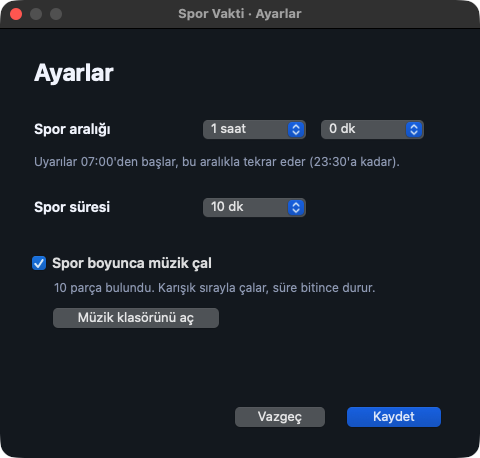
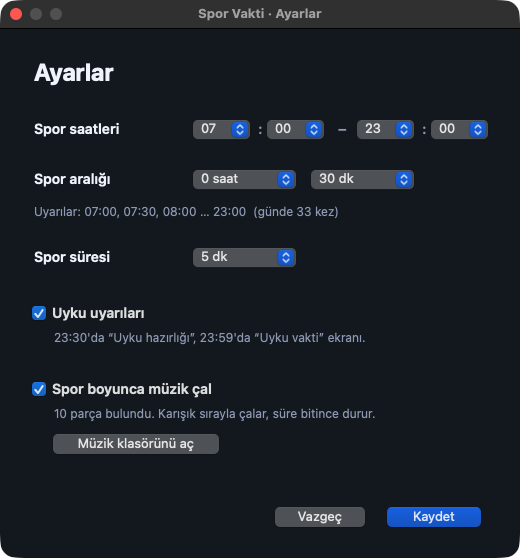
Ayarlar: spor saatleri (başlangıç–bitiş) ve uyku uyarıları aç/kapa
- Ayar ekranında başlangıç ve bitiş saati (5 dk adımlarla); aralık başlangıçtan sayılır
- Ekran örnek düzeni ve günde kaç uyarı geleceğini gösterir
- Uyku uyarıları (23:30, 23:59) kapatılabilir
- run.sh yeni ayarları okur; --kuru ile ekran açmadan kararı yazar (test için)

diff --git a/src/main.swift b/src/main.swift
@@ -30,8 +30,13 @@ let DATA_DIR: URL = {
 
 /// Kullanıcı ayarları: DATA_DIR/ayarlar (anahtar=değer satırları; run.sh de okur)
 struct Settings {
-    /// İki spor uyarısı arası (dakika, 5'in katı). 07:00'den başlayarak sayılır.
+    /// İki spor uyarısı arası (dakika, 5'in katı). Başlangıç saatinden itibaren sayılır.
     var intervalMin = 60
+    /// Spor uyarılarının geldiği saatler (gece yarısından beri dakika, 5'in katı). Bitiş dahil.
+    var startMin = 7 * 60
+    var endMin = 23 * 60
+    /// 23:30 "uyku hazırlığı" ve 23:59 "uyku vakti" uyarıları
+    var sleepNotices = true
     /// Bir seansın süresi (dakika)
     var sessionMin = 10
     /// Seans boyunca muzik klasöründeki parçaları çal
@@ -50,6 +55,9 @@ struct Settings {
             case "aralik_dk": if let v = Int(kv[1]), v >= minInterval { s.intervalMin = v }
             case "sure_dk":   if let v = Int(kv[1]), v >= 1 { s.sessionMin = v }
             case "muzik":     s.music = kv[1] != "0"
+            case "baslangic_dk": if let v = Int(kv[1]), (0..<1440).contains(v) { s.startMin = v }
+            case "bitis_dk":     if let v = Int(kv[1]), (0..<1440).contains(v) { s.endMin = v }
+            case "uyku_uyarisi": s.sleepNotices = kv[1] != "0"
             default: break
             }
         }
@@ -58,6 +66,7 @@ struct Settings {
 
     func save() throws {
         let text = "aralik_dk=\(intervalMin)\nsure_dk=\(sessionMin)\nmuzik=\(music ? 1 : 0)\n"
+            + "baslangic_dk=\(startMin)\nbitis_dk=\(endMin)\nuyku_uyarisi=\(sleepNotices ? 1 : 0)\n"
         try text.write(to: Settings.url, atomically: true, encoding: .utf8)
     }
 }
@@ -947,6 +956,12 @@ final class SettingsWindow: NSObject, NSWindowDelegate {
     init(onClose: @escaping () -> Void) { self.onClose = onClose }
     let hours = NSPopUpButton(frame: .zero, pullsDown: false)
     let mins = NSPopUpButton(frame: .zero, pullsDown: false)
+    let startH = NSPopUpButton(frame: .zero, pullsDown: false)
+    let startM = NSPopUpButton(frame: .zero, pullsDown: false)
+    let endH = NSPopUpButton(frame: .zero, pullsDown: false)
+    let endM = NSPopUpButton(frame: .zero, pullsDown: false)
+    let schedule = NSTextField(labelWithString: "")
+    let sleepBox = NSButton(checkboxWithTitle: "Uyku uyarıları", target: nil, action: nil)
     let dur = NSPopUpButton(frame: .zero, pullsDown: false)
     let musicBox = NSButton(checkboxWithTitle: "Spor boyunca müzik çal", target: nil, action: nil)
     let musicInfo = NSTextField(labelWithString: "")
@@ -962,7 +977,7 @@ final class SettingsWindow: NSObject, NSWindowDelegate {
     }
 
     func show() {
-        let W: CGFloat = 480, H: CGFloat = 430, L: CGFloat = 32
+        let W: CGFloat = 520, H: CGFloat = 530, L: CGFloat = 32, X: CGFloat = 190
         win = NSWindow(contentRect: NSRect(x: 0, y: 0, width: W, height: H),
                        styleMask: [.titled, .closable], backing: .buffered, defer: false)
         win.title = "Spor Vakti · Ayarlar"
@@ -974,28 +989,55 @@ final class SettingsWindow: NSObject, NSWindowDelegate {
 
         v.addSubview(text("Ayarlar", 24, .bold, C_WHITE, NSRect(x: L, y: H - 62, width: 300, height: 32)))
 
+        // Saatler: başlangıç – bitiş
+        v.addSubview(text("Spor saatleri", 14, .semibold, C_WHITE, NSRect(x: L, y: H - 112, width: 150, height: 20)))
+        let hh = (0...23).map { String(format: "%02d", $0) }
+        let mm = stride(from: 0, through: 55, by: 5).map { String(format: "%02d", $0) }
+        for (p, items) in [(startH, hh), (startM, mm), (endH, hh), (endM, mm)] { p.addItems(withTitles: items) }
+        startH.frame = NSRect(x: X, y: H - 116, width: 64, height: 26)
+        v.addSubview(text(":", 14, .semibold, C_MUTED, NSRect(x: X + 66, y: H - 112, width: 8, height: 20)))
+        startM.frame = NSRect(x: X + 74, y: H - 116, width: 64, height: 26)
+        v.addSubview(text("–", 14, .semibold, C_MUTED, NSRect(x: X + 146, y: H - 112, width: 14, height: 20)))
+        endH.frame = NSRect(x: X + 164, y: H - 116, width: 64, height: 26)
+        v.addSubview(text(":", 14, .semibold, C_MUTED, NSRect(x: X + 230, y: H - 112, width: 8, height: 20)))
+        endM.frame = NSRect(x: X + 238, y: H - 116, width: 64, height: 26)
+        startH.selectItem(at: settings.startMin / 60); startM.selectItem(at: (settings.startMin % 60) / 5)
+        endH.selectItem(at: settings.endMin / 60); endM.selectItem(at: (settings.endMin % 60) / 5)
+        for p in [startH, startM, endH, endM] { v.addSubview(p) }
+
         // Aralık: saat + dakika
-        v.addSubview(text("Spor aralığı", 14, .semibold, C_WHITE, NSRect(x: L, y: H - 112, width: 160, height: 20)))
+        v.addSubview(text("Spor aralığı", 14, .semibold, C_WHITE, NSRect(x: L, y: H - 162, width: 150, height: 20)))
         hours.addItems(withTitles: (0...6).map { "\($0) saat" })
         mins.addItems(withTitles: stride(from: 0, through: 55, by: 5).map { "\($0) dk" })
-        hours.frame = NSRect(x: 200, y: H - 116, width: 110, height: 26)
-        mins.frame = NSRect(x: 318, y: H - 116, width: 110, height: 26)
+        hours.frame = NSRect(x: X, y: H - 166, width: 110, height: 26)
+        mins.frame = NSRect(x: X + 118, y: H - 166, width: 110, height: 26)
         let iv = settings.intervalMin
         hours.selectItem(at: min(6, iv / 60))
         mins.selectItem(at: (iv % 60) / 5)
         v.addSubview(hours); v.addSubview(mins)
-        v.addSubview(text("Uyarılar 07:00'den başlar, bu aralıkla tekrar eder (23:30'a kadar).", 12, .regular, C_MUTED,
-                          NSRect(x: L, y: H - 144, width: W - 2 * L, height: 18)))
+        schedule.font = .systemFont(ofSize: 12)
+        schedule.textColor = C_MUTED
+        schedule.lineBreakMode = .byTruncatingTail
+        schedule.frame = NSRect(x: L, y: H - 194, width: W - 2 * L, height: 18)
+        v.addSubview(schedule)
 
         // Süre
-        v.addSubview(text("Spor süresi", 14, .semibold, C_WHITE, NSRect(x: L, y: H - 190, width: 160, height: 20)))
+        v.addSubview(text("Spor süresi", 14, .semibold, C_WHITE, NSRect(x: L, y: H - 240, width: 150, height: 20)))
         dur.addItems(withTitles: (1...60).map { "\($0) dk" })
-        dur.frame = NSRect(x: 200, y: H - 194, width: 110, height: 26)
+        dur.frame = NSRect(x: X, y: H - 244, width: 110, height: 26)
         dur.selectItem(at: min(60, settings.sessionMin) - 1)
         v.addSubview(dur)
 
+        // Uyku uyarıları
+        sleepBox.frame = NSRect(x: L - 2, y: H - 296, width: 300, height: 22)
+        sleepBox.font = .systemFont(ofSize: 14, weight: .semibold)
+        sleepBox.state = settings.sleepNotices ? .on : .off
+        v.addSubview(sleepBox)
+        v.addSubview(text("23:30'da \u{201C}Uyku hazırlığı\u{201D}, 23:59'da \u{201C}Uyku vakti\u{201D} ekranı.", 12, .regular,
+                          C_MUTED, NSRect(x: L + 20, y: H - 320, width: W - 2 * L - 20, height: 18)))
+
         // Müzik
-        musicBox.frame = NSRect(x: L - 2, y: H - 246, width: 300, height: 22)
+        musicBox.frame = NSRect(x: L - 2, y: H - 372, width: 300, height: 22)
         musicBox.font = .systemFont(ofSize: 14, weight: .semibold)
         musicBox.state = settings.music ? .on : .off
         v.addSubview(musicBox)
@@ -1004,11 +1046,11 @@ final class SettingsWindow: NSObject, NSWindowDelegate {
                                       : "Henüz parça yok. Klasöre mp3 ekle."
         musicInfo.font = .systemFont(ofSize: 12)
         musicInfo.textColor = C_MUTED
-        musicInfo.frame = NSRect(x: L + 20, y: H - 270, width: W - 2 * L - 20, height: 18)
+        musicInfo.frame = NSRect(x: L + 20, y: H - 396, width: W - 2 * L - 20, height: 18)
         v.addSubview(musicInfo)
         let open = NSButton(title: "Müzik klasörünü aç", target: self, action: #selector(openMusic))
         open.bezelStyle = .rounded
-        open.frame = NSRect(x: L + 14, y: H - 306, width: 180, height: 30)
+        open.frame = NSRect(x: L + 14, y: H - 432, width: 180, height: 30)
         v.addSubview(open)
 
         warn.font = .systemFont(ofSize: 12, weight: .medium)
@@ -1027,7 +1069,7 @@ final class SettingsWindow: NSObject, NSWindowDelegate {
         saveBtn.frame = NSRect(x: W - L - 108, y: 24, width: 108, height: 32)
         v.addSubview(cancel); v.addSubview(saveBtn)
 
-        for p in [hours, mins, dur] { p.target = self; p.action = #selector(validate) }
+        for p in [hours, mins, dur, startH, startM, endH, endM] { p.target = self; p.action = #selector(validate) }
         validate()
 
         win.center()
@@ -1038,11 +1080,26 @@ final class SettingsWindow: NSObject, NSWindowDelegate {
     }
 
     var interval: Int { hours.indexOfSelectedItem * 60 + mins.indexOfSelectedItem * 5 }
+    var startTime: Int { startH.indexOfSelectedItem * 60 + startM.indexOfSelectedItem * 5 }
+    var endTime: Int { endH.indexOfSelectedItem * 60 + endM.indexOfSelectedItem * 5 }
+
+    static func clock(_ m: Int) -> String { String(format: "%02d:%02d", m / 60, m % 60) }
     var duration: Int { dur.indexOfSelectedItem + 1 }
 
     @objc func validate() {
         var msg = ""
-        if interval < Settings.minInterval {
+        // Örnek düzen: ilk birkaç uyarı ve sonuncusu
+        if interval > 0 && endTime >= startTime {
+            let times = Array(stride(from: startTime, through: endTime, by: interval))
+            let head = times.prefix(3).map(SettingsWindow.clock).joined(separator: ", ")
+            let tail = times.count > 3 ? " … \(SettingsWindow.clock(times.last!))" : ""
+            schedule.stringValue = "Uyarılar: \(head)\(tail)  (günde \(times.count) kez)"
+        } else {
+            schedule.stringValue = ""
+        }
+        if endTime <= startTime {
+            msg = "Bitiş saati başlangıçtan sonra olmalı."
+        } else if interval < Settings.minInterval {
             msg = "Aralık en az \(Settings.minInterval) dakika olmalı."
         } else if duration >= interval {
             msg = "Spor süresi aralıktan kısa olmalı."
@@ -1064,6 +1121,9 @@ final class SettingsWindow: NSObject, NSWindowDelegate {
         s.intervalMin = interval
         s.sessionMin = duration
         s.music = musicBox.state == .on
+        s.startMin = startTime
+        s.endMin = endTime
+        s.sleepNotices = sleepBox.state == .on
         do {
             try s.save()
             applySettings(s)

diff --git a/README.md b/README.md
@@ -23,12 +23,12 @@ Sana ne yapacağını söylemez. Ama sana sorar: **gerçekten yapıyor musun, yo
 
 | | |
 |---|---|
-| ![Soru](docs/1-spor-vakti.png) | **Belirlediğin aralıkla (varsayılan saat başı, 07:00–23:00):** Tam ekran "Spor vakti." Bugünkü durumun altta: seans, dakika, pas. Sağ üstteki **Ayarlar** (ya da `A`) ile aralığı, süreyi ve müziği oradan değiştirebilirsin; yeni süre hemen geçerli olur. |
+| ![Soru](docs/1-spor-vakti.png) | **Belirlediğin saatlerde ve aralıkla (varsayılan 07:00–23:00, saat başı):** Tam ekran "Spor vakti." Bugünkü durumun altta: seans, dakika, pas. Sağ üstteki **Ayarlar** (ya da `A`) ile saatleri, aralığı, süreyi ve müziği oradan değiştirebilirsin; yeni süre hemen geçerli olur. |
 | | **Şimdi olmuyorsa:** **5 dk ertele** (ya da `E`). Pas sayılmaz; uyarı 5 dk sonra gelir ve o günün düzeni de 5 dk kayar (14:00 ertelendiyse 14:05, sonraki 15:05). Her erteleme 5 dk daha kaydırır; ertesi gün saat başına döner. |
 | ![Emin misin](docs/2-emin-misin.png) | **Pas geçmek istersen:** "Bugün 2. pas olacak. Bugün toplam 20 dakika spordan mahrum kalacaksın." Kutuya **evet** yazınca **Pas geç** düğmesi açılır. **Spora başla** her zaman orada. |
 | ![Seans](docs/3-seans.png) | **Başlıyorum dersen:** Geri sayım başlar (varsayılan 10 dk) ve **spor müziği çalmaya başlar**; süre bitince müzik de yavaşça susar. Erken bitirirsen eksik kalan dakikalar da sayılır. **Küçült · müzik aç** (ya da `M`) ile ekran köşede küçük bir sayaca dönüşür: müzik açabilir, bilgisayarı kullanabilirsin; seans sürer, pas sayılmaz. Süre bitince tam ekran geri gelir. |
 | ![Tamamlandı](docs/4-tamamlandi.png) | **Bitince:** Bugün kaçıncı seans olduğu ve toplam spor süresi. |
-| ![Uyku hazırlığı](docs/5-uyku-hazirlik.png) | **23:30:** "Uyumak için hazırlıklarını yap." |
+| ![Uyku hazırlığı](docs/5-uyku-hazirlik.png) | **23:30:** "Uyumak için hazırlıklarını yap." (Uyku uyarıları ayarlardan kapatılabilir.) |
 | ![Uyku vakti](docs/6-uyku-vakti.png) | **23:59:** "Uyku vakti." Gece uyarıları yalnızca **Tamam** ile kapanır. |
 
 ### Ne zaman görünmez
@@ -37,7 +37,7 @@ Sana ne yapacağını söylemez. Ama sana sorar: **gerçekten yapıyor musun, yo
 - **Ekran paylaşırken:** Zoom paylaşımı ya da Chrome'un paylaşım çubuğu varsa uyarı açılmaz. Pencereler ayrıca ekran yakalamadan hariç tutulacak şekilde işaretlenir. Karşı taraf görmez.
 - Ekran kilitliyken, ekran koruyucu açıkken, 10 dakikadan uzun süredir klavye ya da fare kullanılmıyorsa.
 - Bilgisayar uykudan geç uyandıysa (uyarı dakikasının üzerinden 5 dakika geçtiyse).
-- Gece 00:00–07:00 arası spor uyarısı yok.
+- Spor saatlerinin dışında (varsayılan 07:00–23:00; ayarlardan değişir).
 - Duraklatılmışken.
 
 5 dakika içinde cevap verilmezse seans **cevapsız** (pas) sayılır.
@@ -71,8 +71,10 @@ Spor ekranında sağ üstteki **Ayarlar** düğmesine bas (ya da `A`), veya iste
 
 | Ayar | Seçenekler | Varsayılan |
 |---|---|---|
-| **Spor aralığı** | Kaç saat + kaç dakikada bir (5 dk adımlarla, en az 15 dk). Uyarılar 07:00'den başlar ve bu aralıkla tekrar eder: 1 saat 30 dk → 07:00, 08:30, 10:00… | 1 saat |
+| **Spor saatleri** | Başlangıç ve bitiş saati (5 dk adımlarla). Spor uyarıları yalnızca bu saatler arasında gelir. | 07:00 – 23:00 |
+| **Spor aralığı** | Kaç saat + kaç dakikada bir (5 dk adımlarla, en az 15 dk). Uyarılar başlangıç saatinden itibaren bu aralıkla tekrar eder: 09:00 ve 1 saat 30 dk → 09:00, 10:30, 12:00… Ekran örnek düzeni ve günde kaç uyarı geleceğini gösterir. | 1 saat |
 | **Spor süresi** | 1–60 dakika | 10 dk |
+| **Uyku uyarıları** | 23:30 "Uyku hazırlığı" ve 23:59 "Uyku vakti" ekranları: açık / kapalı | Açık |
 | **Müzik** | Spor boyunca müzik çal: açık / kapalı | Açık |
 
 Kaydettiğin an geçerli olur; yeniden kurman gerekmez.
@@ -112,19 +114,19 @@ It doesn't tell you what to do. It asks: **are you actually doing it, or skippin
 
 ### How it works
 
-- **On your schedule (default: every hour, 07:00–23:00):** a full-screen "Spor vakti." prompt with today's tally (sessions, minutes, skips). The **Ayarlar** (Settings) button in the top-right corner (or `A`) opens the settings right there; a new session length applies immediately.
+- **On your schedule (default: every hour, 07:00–23:00):** a full-screen "Spor vakti." prompt with today's tally (sessions, minutes, skips). The **Ayarlar** (Settings) button in the top-right corner (or `A`) opens the settings right there (hours, interval, length, music); a new session length applies immediately.
 - **Not now?** **5 dk ertele** (or `E`) snoozes 5 minutes without counting as a skip, and shifts the rest of the day's schedule by 5 minutes too (snooze 14:00 → 14:05, next one at 15:05). Each snooze adds another 5; the next day starts on the hour again.
 - **Skip?** A confirmation screen shows the cost ("This will be skip #2 today, 20 minutes missed"). Typing **evet** ("yes") unlocks the **Pas geç** (Skip) button; **Spora başla** (Start) is always there. Your choice is recorded explicitly.
 - **Start?** A countdown (10 minutes by default) and **the workout music kicks in**; it fades out when time is up. Ending early still counts the missing minutes. **Küçült · müzik aç** (or `M`) shrinks it to a small corner timer so you can put on music or use the computer; the session keeps running and is not a skip. It returns to full screen when time is up.
 - **Done:** today's session count and total exercise time.
-- **23:30:** "Get ready for bed." **23:59:** "Bedtime." Night notices close only with **Tamam** (OK).
+- **23:30:** "Get ready for bed." **23:59:** "Bedtime." Night notices close only with **Tamam** (OK), and can be turned off in settings.
 
 ### When it stays hidden
 
 - **On a call:** if any app is capturing the microphone (Zoom, Google Meet, Teams…).
 - **While screen sharing:** Zoom sharing or Chrome's sharing bar detected. The windows are also excluded from screen capture where supported, so the people you share with don't see the reminder.
 - Screen locked, screensaver running, or no keyboard or mouse activity for 10+ minutes.
-- Late wake from sleep, quiet hours (00:00–07:00 for workout prompts), or paused.
+- Late wake from sleep, outside your workout hours (default 07:00–23:00, set in settings), or paused.
 
 No answer within 5 minutes counts as a skip.
 
@@ -148,8 +150,10 @@ Press **Ayarlar** (or `A`) on the workout prompt, or double-click `ayarlar.comma
 
 | Setting | Options | Default |
 |---|---|---|
-| **Interval** (Spor aralığı) | Hours + minutes, 5-minute steps, at least 15 min. Prompts start at 07:00 and repeat: 1 h 30 min → 07:00, 08:30, 10:00… | 1 hour |
+| **Workout hours** (Spor saatleri) | Start and end time, 5-minute steps. Workout prompts only appear in this window. | 07:00 – 23:00 |
+| **Interval** (Spor aralığı) | Hours + minutes, 5-minute steps, at least 15 min. Prompts repeat from the start time: 09:00 and 1 h 30 min → 09:00, 10:30, 12:00… The window previews the schedule and how many prompts you'll get per day. | 1 hour |
 | **Session length** (Spor süresi) | 1–60 minutes | 10 min |
+| **Sleep notices** (Uyku uyarıları) | The 23:30 "Get ready for bed" and 23:59 "Bedtime" screens: on / off | On |
 | **Music** (Müzik) | Play music during the session: on / off | On |
 
 Changes apply as soon as you save; no reinstall needed.
